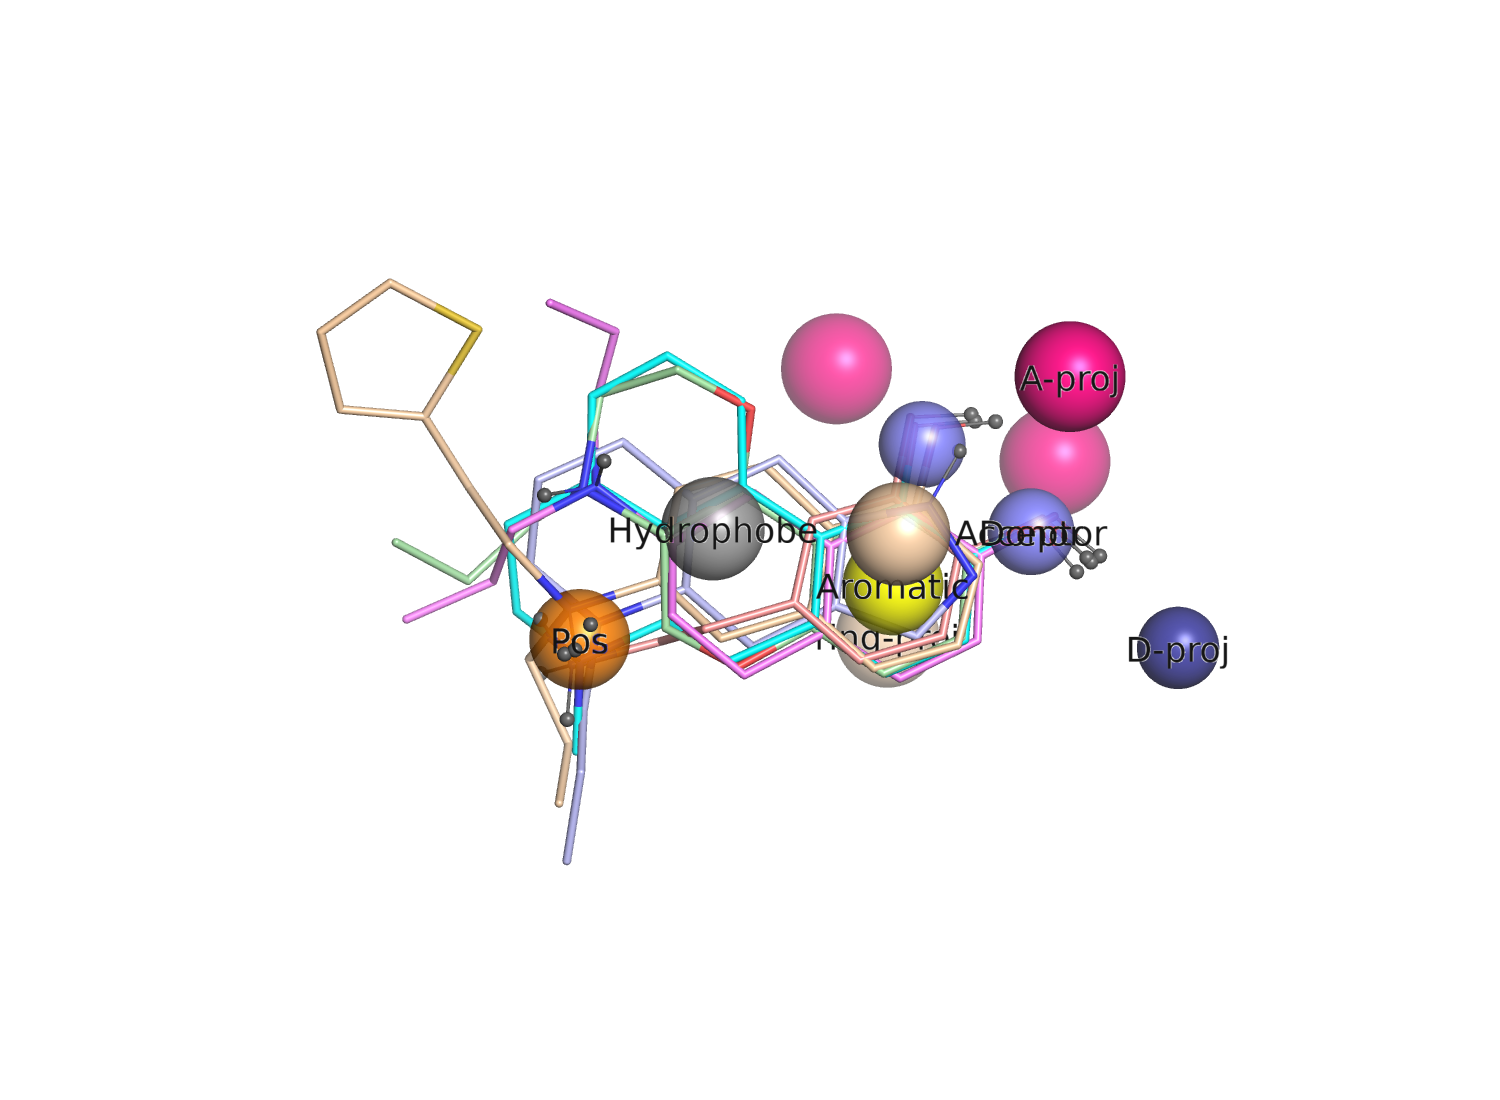
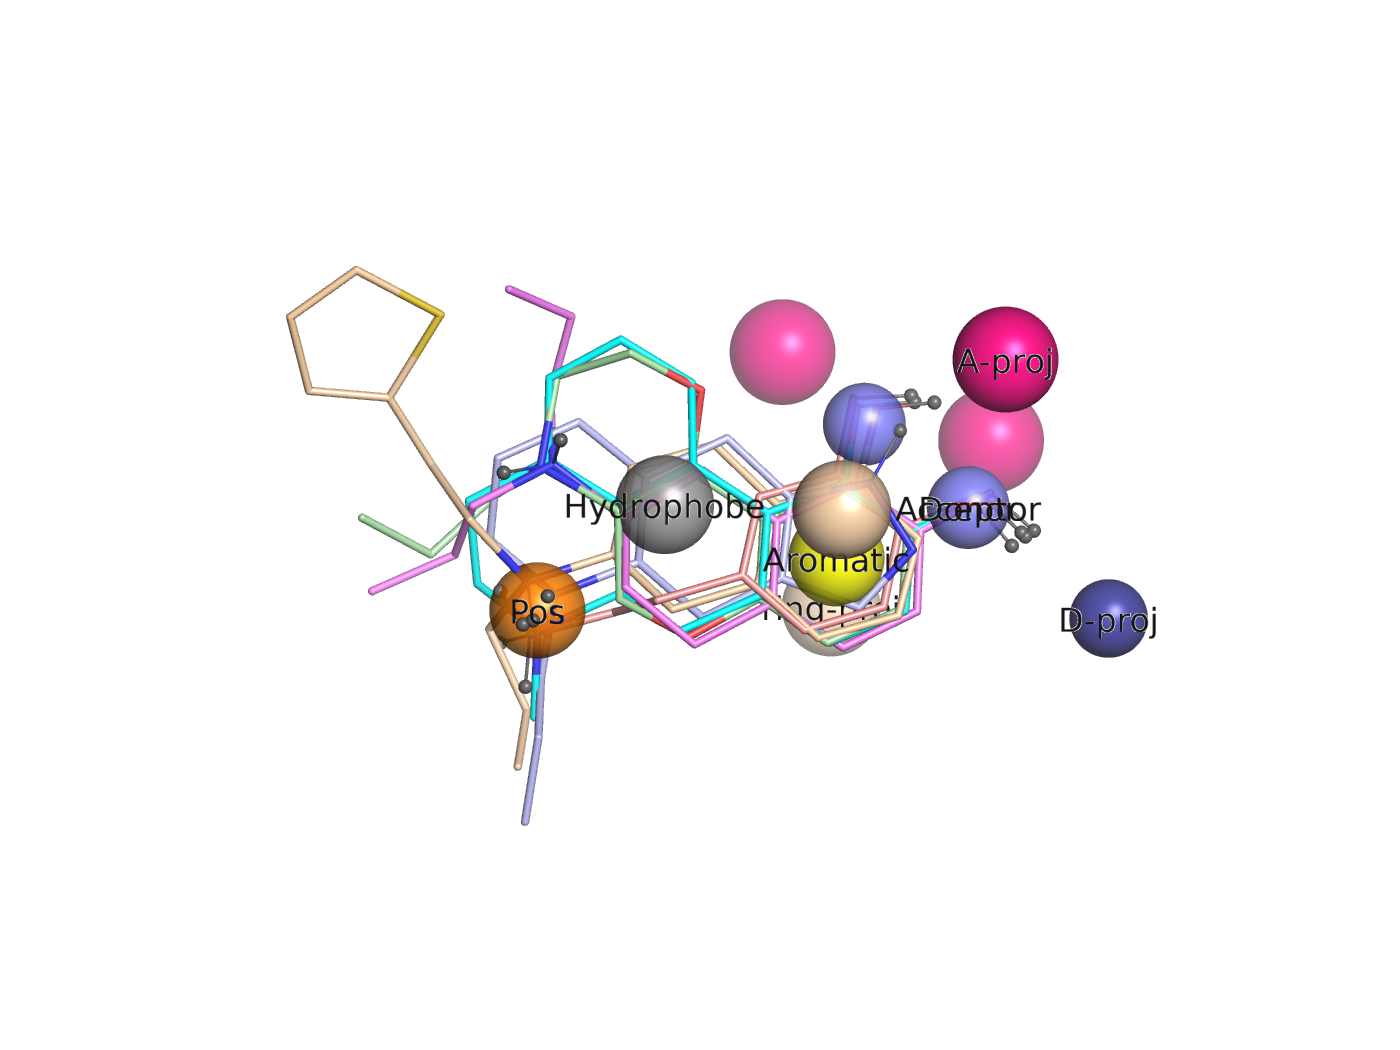
Add Tversky / "fit" partial-match scoring
overlaptools.add_tversky(df, alpha, mixing) computes reference-Tversky
  Tv = O_AB / (alpha*O_AA + (1-alpha)*O_BB)
from the overlap + self-overlap columns roshambo2 returns (the roshambo2
authors have this commented out in roshambo2.py). alpha->1 rewards covering
the query and ignores the hit's extra bulk -> a small query/fragment matches
a sub-region of a larger molecule without a Tanimoto penalty.

- overlap_pharmacophore.py: optional 2nd arg = tversky alpha; ranks the
  conformer scan and the per-pose pick by tversky_combo when set.
- consensus_pharmacophore.py: aligns each ligand to the reference by
  Tversky (alpha=0.95 default) so small ligands snap onto the relevant
  sub-region of rigid apomorphine.
- overlaptools: match_overlap now takes (query_pts, hit_pts) feature lists;
  feature_points() runs the generator directly (no roshambo2 SDF round-trip).
  Both scripts share it; consensus no longer hand-rolls feature extraction.

Claude-Session: https://claude.ai/code/session_01YS3ZBNuU1N7kzEmFAYq3J1

Changed region(s): [[0.1843, 0.2438, 0.7679, 0.7924], [0.7371, 0.5486, 0.8293, 0.64], [0.3686, 0.2743, 0.3993, 0.3048]]

diff --git a/example/dopamine_pd128907/overlap_pharmacophore.py b/example/dopamine_pd128907/overlap_pharmacophore.py
@@ -2,21 +2,21 @@
 
 Overlays protonated dopamine (query, N_QUERY_CONFS conformers, best kept) on the
 D3 agonist PD128907 (dataset, N_DATASET_CONFS conformers) with the CUDA backend,
-then keeps ONLY the "color" feature points that actually overlap between the two
-(overlaptools.match_overlap) and renders those.
+keeps ONLY the "color" feature points that overlap between the two, renders them.
 
-Two models are produced:
-  stock      - roshambo2's default 1-point-per-feature colour model
-  projected  - ProjectedPointPharmacophoreGenerator (adds directional donor /
-               acceptor lone-pair / ring-normal / cation projected points)
+    python overlap_pharmacophore.py [min_overlap] [tversky_alpha]
 
-Outputs (cwd):
-  overlap_model_stock.sdf      overlap_model_projected.sdf        the models
-  overlap_stock.pml  / .png    overlap_projected.pml  / .png      renders
-  ligand_{dopamine,PD128907}_{stock,proj}.sdf                     context ligands
+min_overlap   overlap-fraction cutoff for a shared feature (default 0.15)
+tversky_alpha if given, rank/select by reference-Tversky ("fit") instead of the
+              symmetric combo Tanimoto - alpha->1 rewards covering the query and
+              ignores the hit's extra bulk (partial / sub-region matching)
+
+Two colour models are built: `stock` (roshambo2 default, 1 pt/feature) and
+`projected` (ProjectedPointPharmacophoreGenerator - directional points).
+Outputs: overlap_model_{stock,projected}.sdf, overlap_{stock,projected}.{pml,png},
+ligand_{dopamine,PD128907}_{stock,projected}.sdf
 """
 import sys
-import numpy as np
 from rdkit import Chem
 from rdkit.Chem import rdDistGeom, rdForceFieldHelpers
 from roshambo2 import Roshambo2
@@ -24,7 +24,9 @@ from projected_pharmacophore import ProjectedPointPharmacophoreGenerator
 from ligtools import pose_with_H, polar_only
 import overlaptools as ot
 
-MIN_OVERLAP = float(sys.argv[1]) if len(sys.argv) > 1 else 0.15   # d <= ~1.95 A
+MIN_OVERLAP = float(sys.argv[1]) if len(sys.argv) > 1 else 0.15
+TVERSKY = float(sys.argv[2]) if len(sys.argv) > 2 else None
+RANK = "tversky_combo" if TVERSKY else "tanimoto_combination"
 N_QUERY_CONFS = 25
 N_DATASET_CONFS = 100
 DOPAMINE = "C1=CC(=C(C=C1CC[NH3+])O)O"
@@ -54,8 +56,12 @@ dopamine_confs = split(gen(DOPAMINE, "dopamine_H+", N_QUERY_CONFS))
 dataset = [gen(PD128907, "PD128907_H+", N_DATASET_CONFS)]
 
 
+def rank(df):
+    return ot.add_tversky(df, alpha=TVERSKY) if TVERSKY else df
+
+
 def best_conformer(color_generator):
-    """25-conformer scan -> (best dopamine conf name, best score row)."""
+    """25-conformer scan -> best dopamine conf name by RANK."""
     calc = Roshambo2(list(dopamine_confs.values()), dataset, color=True,
                      remove_Hs_before_color_assignment=False,
                      conformers_have_unique_names=True,
@@ -63,47 +69,51 @@ def best_conformer(color_generator):
     scores = calc.compute(backend="cuda", reduce_over_conformers=True,
                           optim_mode="combination", combination_param=0.5,
                           write_scores=False)
-    return max(((q.rsplit("_", 1)[0], df.iloc[0]) for q, df in scores.items()),
-               key=lambda x: x[1]["tanimoto_combination"])
+    rows = [(q.rsplit("_", 1)[0], rank(df).iloc[0]) for q, df in scores.items()]
+    return max(rows, key=lambda x: x[1][RANK])
 
 
 def build(tag, color_generator):
     best_q, row = best_conformer(color_generator)
+    extra = f" tversky={row['tversky_combo']:.3f}" if TVERSKY else ""
     print(f"{tag:<11}{row['tanimoto_shape']:>8.3f}{row['tanimoto_color']:>8.3f}"
-          f"{row['tanimoto_combination']:>8.3f}   (dopamine {best_q})")
+          f"{row['tanimoto_combination']:>8.3f}{extra}   (dopamine {best_q})")
 
-    qmol = Chem.Mol(dopamine_confs[best_q])       # copy - don't rename the shared conf
+    qmol = Chem.Mol(dopamine_confs[best_q])
     qmol.SetProp("_Name", "dopamine_H+")
     calc = Roshambo2(qmol, dataset, color=True, remove_Hs_before_color_assignment=False,
                      color_generator=color_generator)
-    df = next(iter(calc.compute(backend="cuda", reduce_over_conformers=False,
-                                optim_mode="combination", combination_param=0.5,
-                                write_scores=False).values()))
-    calc.write_best_fit_structures(hits_sdf_prefix=f"_hits_{tag}", top_n=1,
-                                   write_color_pseudomols=True, append_query=True,
-                                   feature_to_symbol_map=ot.FEATURE_TO_SYMBOL)
+    df = rank(next(iter(calc.compute(backend="cuda", reduce_over_conformers=False,
+                                     optim_mode="combination", combination_param=0.5,
+                                     write_scores=False).values())))
+    df = df.sort_values(RANK, ascending=False).reset_index(drop=True)
+    best_hit = df["name"].iloc[0]
 
-    pairs = ot.match_overlap(f"_hits_{tag}_dopamine_H+_0_color_features.sdf", MIN_OVERLAP)
+    poses = {m.GetProp("name"): m for m in calc.get_best_fit_structures()["dopamine_H+_0"]}
+    k = int(best_hit.rsplit("_", 1)[-1])
+    hit = pose_with_H(poses[best_hit], Chem.Mol(dataset[0], confId=k))
+
+    qpts = ot.feature_points(qmol, color_generator)
+    hpts = ot.feature_points(hit, color_generator)
+    pairs = ot.match_overlap(qpts, hpts, MIN_OVERLAP)
     print(f"           model: {tag}")
     ot.print_table(pairs, float(df["overlap_color"].iloc[0]))
     ot.write_model(pairs, f"overlap_model_{tag}.sdf", min_overlap=MIN_OVERLAP)
 
-    # context ligands with the exact hydrogens roshambo2 scored
-    hit_noH = calc.get_best_fit_structures(top_n=1)["dopamine_H+_0"][0]
-    k = int(hit_noH.GetProp("name").rsplit("_", 1)[-1])
     lq, lh = f"ligand_dopamine_{tag}.sdf", f"ligand_PD128907_{tag}.sdf"
     with Chem.SDWriter(lq) as w:
         w.write(polar_only(qmol))
     with Chem.SDWriter(lh) as w:
-        w.write(polar_only(pose_with_H(hit_noH, Chem.Mol(dataset[0], confId=k))))
+        w.write(polar_only(hit))
 
     ot.write_pml(f"overlap_{tag}.pml", lq, lh, f"overlap_model_{tag}.sdf", pairs,
                  title=f"dopamine x PD128907 overlapping features - {tag} model")
     print(f"           wrote overlap_model_{tag}.sdf and overlap_{tag}.pml\n")
 
 
-print(f"dopamine query confs = {N_QUERY_CONFS}, PD128907 dataset confs = {N_DATASET_CONFS}, "
-      f"min overlap fraction = {MIN_OVERLAP}\n")
+mode = f"Tversky alpha={TVERSKY}" if TVERSKY else "combo Tanimoto"
+print(f"dopamine confs {N_QUERY_CONFS}, PD128907 confs {N_DATASET_CONFS}, "
+      f"min overlap {MIN_OVERLAP}, ranked by {mode}\n")
 print(f"{'model':<11}{'shape':>8}{'color':>8}{'combo':>8}")
 build("stock", None)
 build("projected", ProjectedPointPharmacophoreGenerator())

diff --git a/example/dopamine_pd128907/overlaptools.py b/example/dopamine_pd128907/overlaptools.py
@@ -17,6 +17,28 @@ from rdkit import Chem
 
 V0 = (np.pi / 2) ** 1.5
 
+
+def add_tversky(df, alpha=0.95, mixing=0.5):
+    """Add reference-Tversky ("fit"/partial-match) columns to a roshambo2 score
+    frame. alpha weights the *query* self-overlap: alpha->1 = "how much of the
+    query is covered", ignoring the hit's extra bulk (so a small query can match
+    a sub-region of a big molecule without a Tanimoto penalty). alpha=0.5 with
+    equal terms would reduce to Tanimoto.
+
+        Tv = O_AB / (alpha * O_AA + (1 - alpha) * O_BB)
+    """
+    df = df.copy()
+    df["tversky_shape"] = df["overlap_volume"] / (
+        alpha * df["self_overlap_volume_query"]
+        + (1 - alpha) * df["self_overlap_volume_fit"])
+    if "overlap_color" in df.columns:
+        qc = df["self_overlap_color_query"].where(df["self_overlap_color_query"] > 0)
+        df["tversky_color"] = (df["overlap_color"] /
+                               (alpha * qc + (1 - alpha) * df["self_overlap_color_fit"])
+                               ).fillna(0.0)
+        df["tversky_combo"] = (1 - mixing) * df["tversky_shape"] + mixing * df["tversky_color"]
+    return df
+
 # feature family -> (element used in the SDF, PyMOL colour, short label)
 FAMILY = {
     "Donor":            ("N",  "slate",     "Donor"),
@@ -36,23 +58,27 @@ _Z = {"N": 7, "O": 8, "Fe": 26, "Cl": 17, "S": 16, "Br": 35,
       "F": 9, "I": 53, "B": 5, "P": 15}
 
 
-def _points(mol):
-    conf = mol.GetConformer()
-    return [(a.GetSymbol(), np.array(conf.GetAtomPosition(a.GetIdx())))
-            for a in mol.GetAtoms()]
+def feature_points(mol, color_generator=None):
+    """[(family, xyz), ...] for an RDKit mol (needs its polar H for the donor /
+    cation projected points). color_generator=None -> roshambo2's default."""
+    if color_generator is None:
+        from roshambo2.pharmacophore import PharmacophoreGenerator
+        color_generator = PharmacophoreGenerator()
+    coords, types = color_generator.generate_color_atoms(mol)
+    i2f = color_generator.get_index_to_feature()
+    return [(i2f[int(t)], np.asarray(xyz, float)) for xyz, t in zip(coords, types)]
 
 
-def match_overlap(color_features_sdf, min_overlap=0.15):
-    """color_features_sdf: the *_color_features.sdf written by roshambo2 with
-    write_color_pseudomols=True + append_query=True (entry 0 = query, 1 = hit).
-    Returns a list of pair dicts sorted by contribution, most first."""
-    q, h = list(Chem.SDMolSupplier(color_features_sdf, removeHs=False, sanitize=False))[:2]
-    qf, hf = _points(q), _points(h)
+def match_overlap(qpts, hpts, min_overlap=0.15):
+    """qpts, hpts: [(family, xyz), ...] for query and aligned hit (same frame).
+    Greedy nearest 1:1 match within each family; keep pairs with overlap
+    fraction exp(-d²/2) >= min_overlap. Returns pair dicts, biggest first."""
     pairs = []
-    for sym in {s for s, _ in qf} & {s for s, _ in hf}:
-        qi = [i for i, (s, _) in enumerate(qf) if s == sym]
-        hi = [j for j, (s, _) in enumerate(hf) if s == sym]
-        cand = sorted(((float(np.linalg.norm(qf[i][1] - hf[j][1])), i, j)
+    fams = {f for f, _ in qpts} & {f for f, _ in hpts}
+    for fam in fams:
+        qi = [i for i, (f, _) in enumerate(qpts) if f == fam]
+        hi = [j for j, (f, _) in enumerate(hpts) if f == fam]
+        cand = sorted(((float(np.linalg.norm(qpts[i][1] - hpts[j][1])), i, j)
                        for i in qi for j in hi), key=lambda x: x[0])
         uq, uh = set(), set()
         for d, i, j in cand:
@@ -61,8 +87,9 @@ def match_overlap(color_features_sdf, min_overlap=0.15):
             uq.add(i); uh.add(j)
             fr = float(np.exp(-d * d / 2.0))
             if fr >= min_overlap:
-                pairs.append(dict(feature=SYMBOL_TO_FEATURE[sym], symbol=sym, d=d,
-                                  frac=fr, v=V0 * fr, xyz=0.5 * (qf[i][1] + hf[j][1])))
+                pairs.append(dict(feature=fam, symbol=FEATURE_TO_SYMBOL[fam], d=d,
+                                  frac=fr, v=V0 * fr,
+                                  xyz=0.5 * (qpts[i][1] + hpts[j][1])))
     pairs.sort(key=lambda p: -p["v"])
     return pairs
 

diff --git a/example/dopamine_pd128907/consensus_pharmacophore.py b/example/dopamine_pd128907/consensus_pharmacophore.py
@@ -61,6 +61,11 @@ for line in open(LIGAND_FILE):
 
 N = len(LIGANDS)
 MIN_LIGANDS = int(sys.argv[1]) if len(sys.argv) > 1 else max(2, round(0.6 * N))
+# alpha->1: align each ligand by how well it *covers the reference* (Tversky /
+# "fit"), so a small ligand snaps onto the relevant sub-region instead of being
+# penalised for the reference's extra bulk. None -> symmetric combo Tanimoto.
+TVERSKY = float(sys.argv[2]) if len(sys.argv) > 2 else 0.95
+RANK = "tversky_combo" if TVERSKY else "tanimoto_combination"
 
 cg = ProjectedPointPharmacophoreGenerator()
 idx2fam = cg.get_index_to_feature()
@@ -84,7 +89,9 @@ ref_mol, ref_e = mols[ref_name]
 ref_ci = int(np.argmin(ref_e))
 ref_single = Chem.Mol(ref_mol, confId=ref_ci)
 ref_single.SetProp("_Name", ref_name)
-print(f"reference = {ref_name} (conf {ref_ci});  consensus needs >= {MIN_LIGANDS}/{N} ligands\n")
+mode = f"Tversky alpha={TVERSKY}" if TVERSKY else "combo Tanimoto"
+print(f"reference = {ref_name} (conf {ref_ci});  align by {mode};  "
+      f"consensus needs >= {MIN_LIGANDS}/{N} ligands\n")
 
 # ---- 1-2. align every ligand into the reference frame -----------------------
 aligned = {ref_name: ref_single}
@@ -93,21 +100,25 @@ for name, (m, _) in mols.items():
         continue
     calc = Roshambo2(ref_single, [m], color=True,
                      remove_Hs_before_color_assignment=False, color_generator=cg)
-    row = next(iter(calc.compute(backend="cuda", reduce_over_conformers=False,
-                                 optim_mode="combination", combination_param=0.5,
-                                 write_scores=False).values())).iloc[0]
-    hit_noH = calc.get_best_fit_structures(top_n=1)[f"{ref_name}_0"][0]
-    k = int(hit_noH.GetProp("name").rsplit("_", 1)[-1])
-    aligned[name] = pose_with_H(hit_noH, Chem.Mol(m, confId=k))
+    df = next(iter(calc.compute(backend="cuda", reduce_over_conformers=False,
+                                optim_mode="combination", combination_param=0.5,
+                                write_scores=False).values()))
+    if TVERSKY:
+        df = ot.add_tversky(df, alpha=TVERSKY)
+    df = df.sort_values(RANK, ascending=False).reset_index(drop=True)
+    row = df.iloc[0]
+    poses = {p.GetProp("name"): p for p in calc.get_best_fit_structures()[f"{ref_name}_0"]}
+    k = int(row["name"].rsplit("_", 1)[-1])
+    aligned[name] = pose_with_H(poses[row["name"]], Chem.Mol(m, confId=k))
+    tv = f" tversky={row['tversky_combo']:.2f}" if TVERSKY else ""
     print(f"  aligned {name:12}  shape={row['tanimoto_shape']:.2f} "
-          f"color={row['tanimoto_color']:.2f} combo={row['tanimoto_combination']:.2f}")
+          f"color={row['tanimoto_color']:.2f} combo={row['tanimoto_combination']:.2f}{tv}")
 
 # ---- 3. feature points for every aligned ligand ---------------------------
 by_family = defaultdict(list)                         # family -> [(ligand, xyz), ...]
 for name, mol in aligned.items():
-    coords, types = cg.generate_color_atoms(mol)
-    for xyz, t in zip(coords, types):
-        by_family[idx2fam[int(t)]].append((name, np.asarray(xyz, float)))
+    for fam, xyz in ot.feature_points(mol, cg):
+        by_family[fam].append((name, xyz))
 
 # ---- 4. cluster within each family, keep the consensus ones ---------------
 consensus = []

diff --git a/example/dopamine_pd128907/README.md b/example/dopamine_pd128907/README.md
@@ -8,7 +8,7 @@ points that **actually overlap** between the two molecules are output/rendered.
 |---|---|
 | `roshambo_dopamine.py` | minimal overlay — prints the score, no files |
 | `projected_pharmacophore.py` | `ProjectedPointPharmacophoreGenerator`: adds ROCS-style projected donor / acceptor lone-pair / ring-normal / cation points so colour scoring rewards H-bond & stacking **direction** (importable) |
-| `overlaptools.py` | keep only the query↔hit feature pairs whose Gaussian overlap fraction `exp(-d²/2) ≥ min_overlap`; write the model SDF + PyMOL loader (importable) |
+| `overlaptools.py` | feature-point extraction, overlap matching (`exp(-d²/2) ≥ min_overlap`), model SDF + PyMOL loader, and `add_tversky` for partial / "fit" scoring (importable) |
 | `ligtools.py` | `pose_with_H` (put the *scored* hydrogens on the aligned pose) + `polar_only` (importable) |
 | `overlap_pharmacophore.py` | **the script** — samples 25 dopamine confs, keeps the best, builds the overlap-only model for the **stock** and the **projected** colour model, renders both |
 | `consensus_pharmacophore.py` | multi-ligand: aligns 6 dopaminergic agonists to the most rigid one (apomorphine), clusters feature points, keeps those seen in ≥ N ligands |
@@ -19,10 +19,22 @@ points that **actually overlap** between the two molecules are output/rendered.
 ```
 python overlap_pharmacophore.py            # min_overlap 0.15 (d ≤ ~1.95 Å)
 python overlap_pharmacophore.py 0.30       # stricter
+python overlap_pharmacophore.py 0.15 0.95  # rank/select by Tversky (partial match)
 
 pymol overlap_stock.pml                    # 8 shared features, stock model
 pymol overlap_projected.pml                # 15 shared features, directional model
 ```
+
+**Partial matching (Tversky / "fit")** — `overlaptools.add_tversky(df, alpha)`
+computes `O_AB / (alpha·O_AA + (1-alpha)·O_BB)` from the overlap + self-overlap
+columns roshambo2 already returns. `alpha → 1` scores *how well the query is
+covered*, ignoring the hit's extra bulk — so a small query / fragment can match a
+sub-region of a bigger molecule without a Tanimoto penalty. Pass it as the 2nd
+arg to `overlap_pharmacophore.py`; `consensus_pharmacophore.py` uses `alpha=0.95`
+by default so each ligand snaps onto the relevant part of the (rigid) reference.
+roshambo2's own optimiser already maximises raw overlap, so it aligns
+partial-friendly regardless — Tversky only changes which pose/conformer is
+*picked* and *reported*.
 
 Outputs: `overlap_model_{stock,projected}.sdf` (the models),
 `overlap_{stock,projected}.{pml,png}` (renders),
